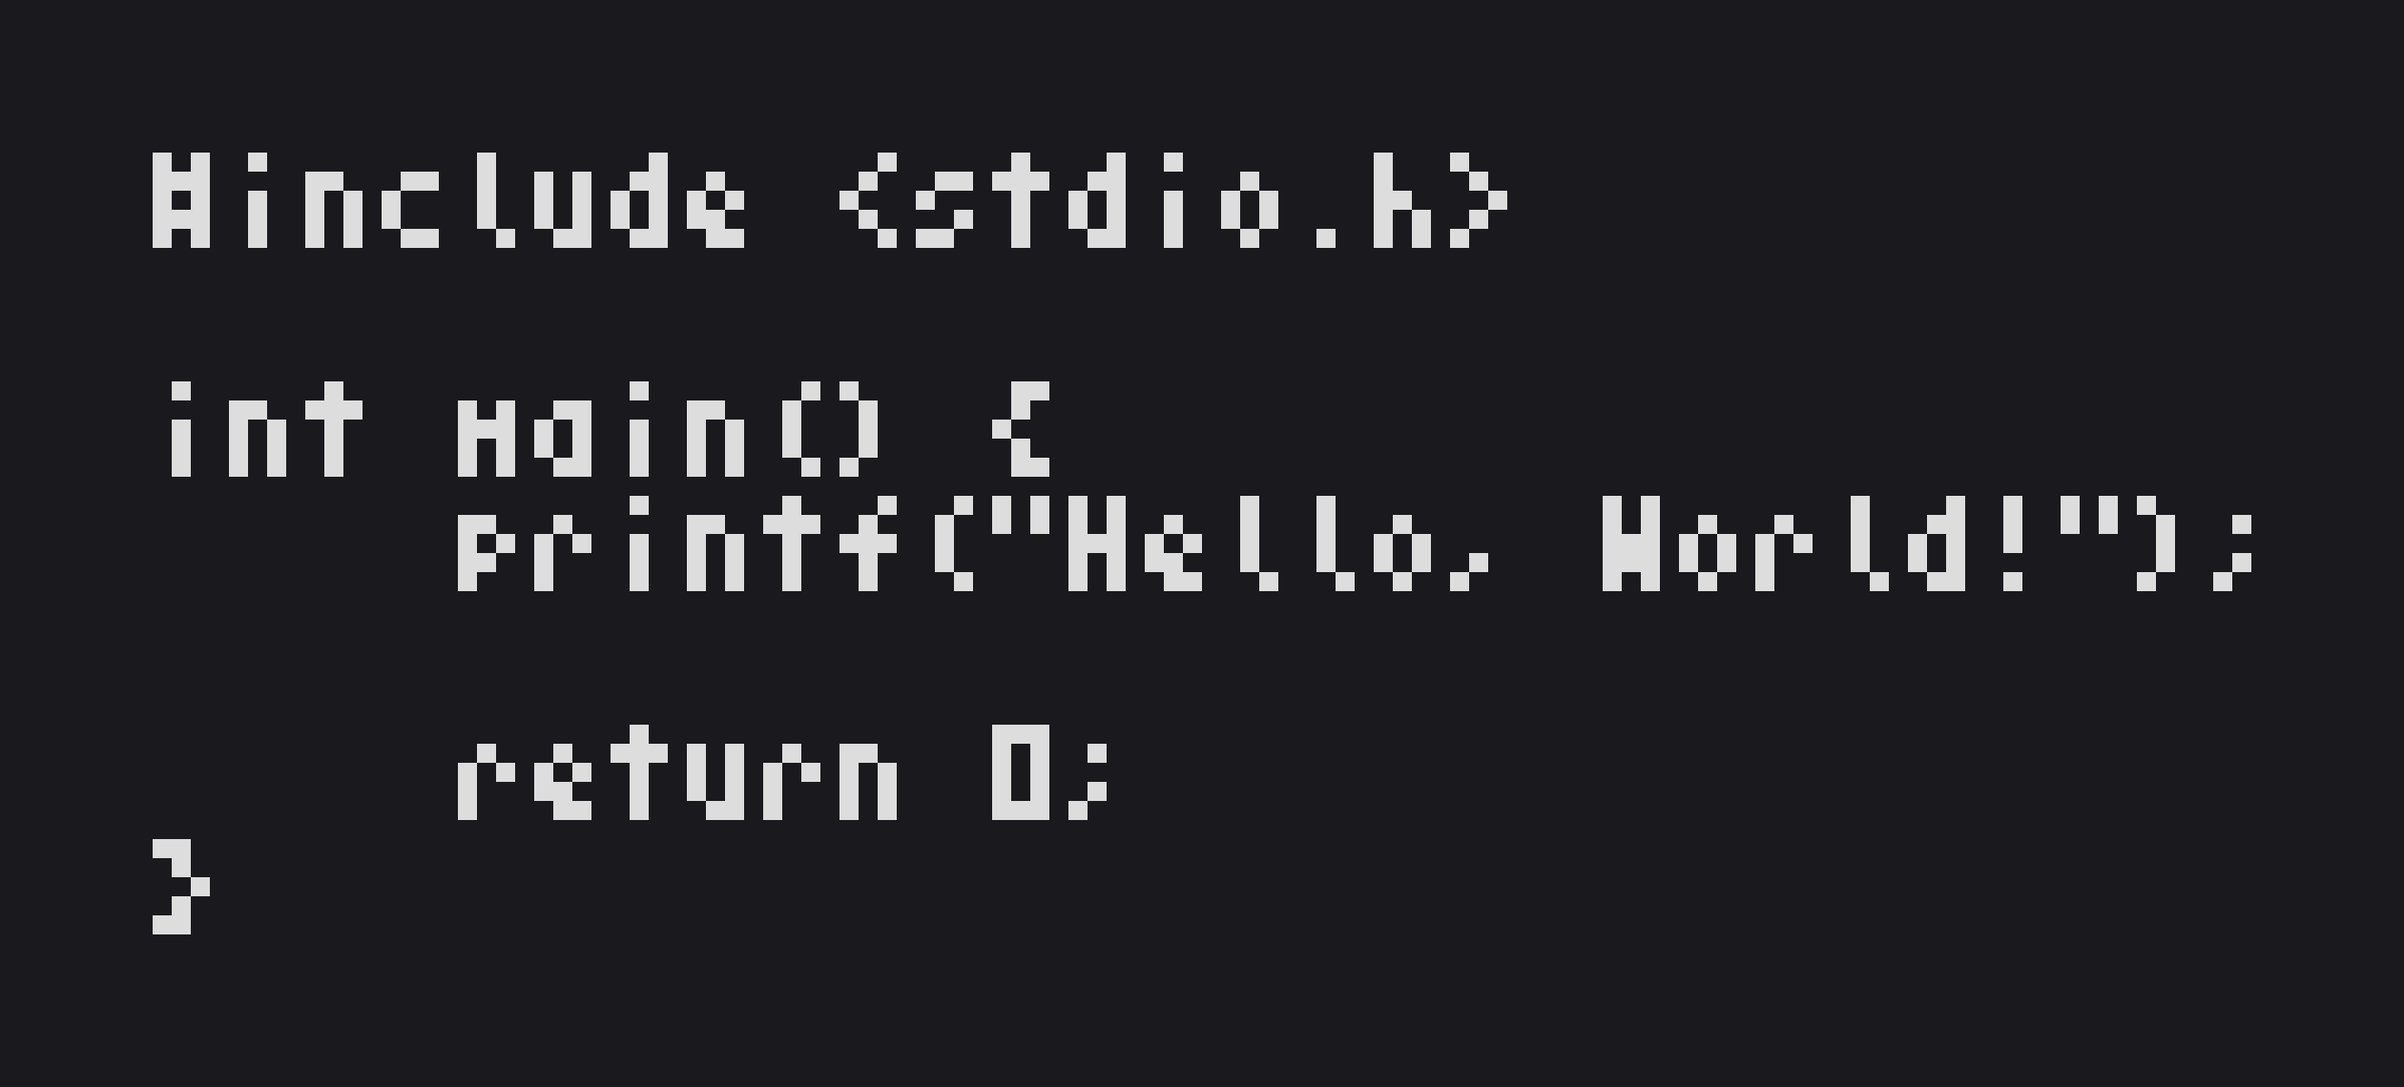
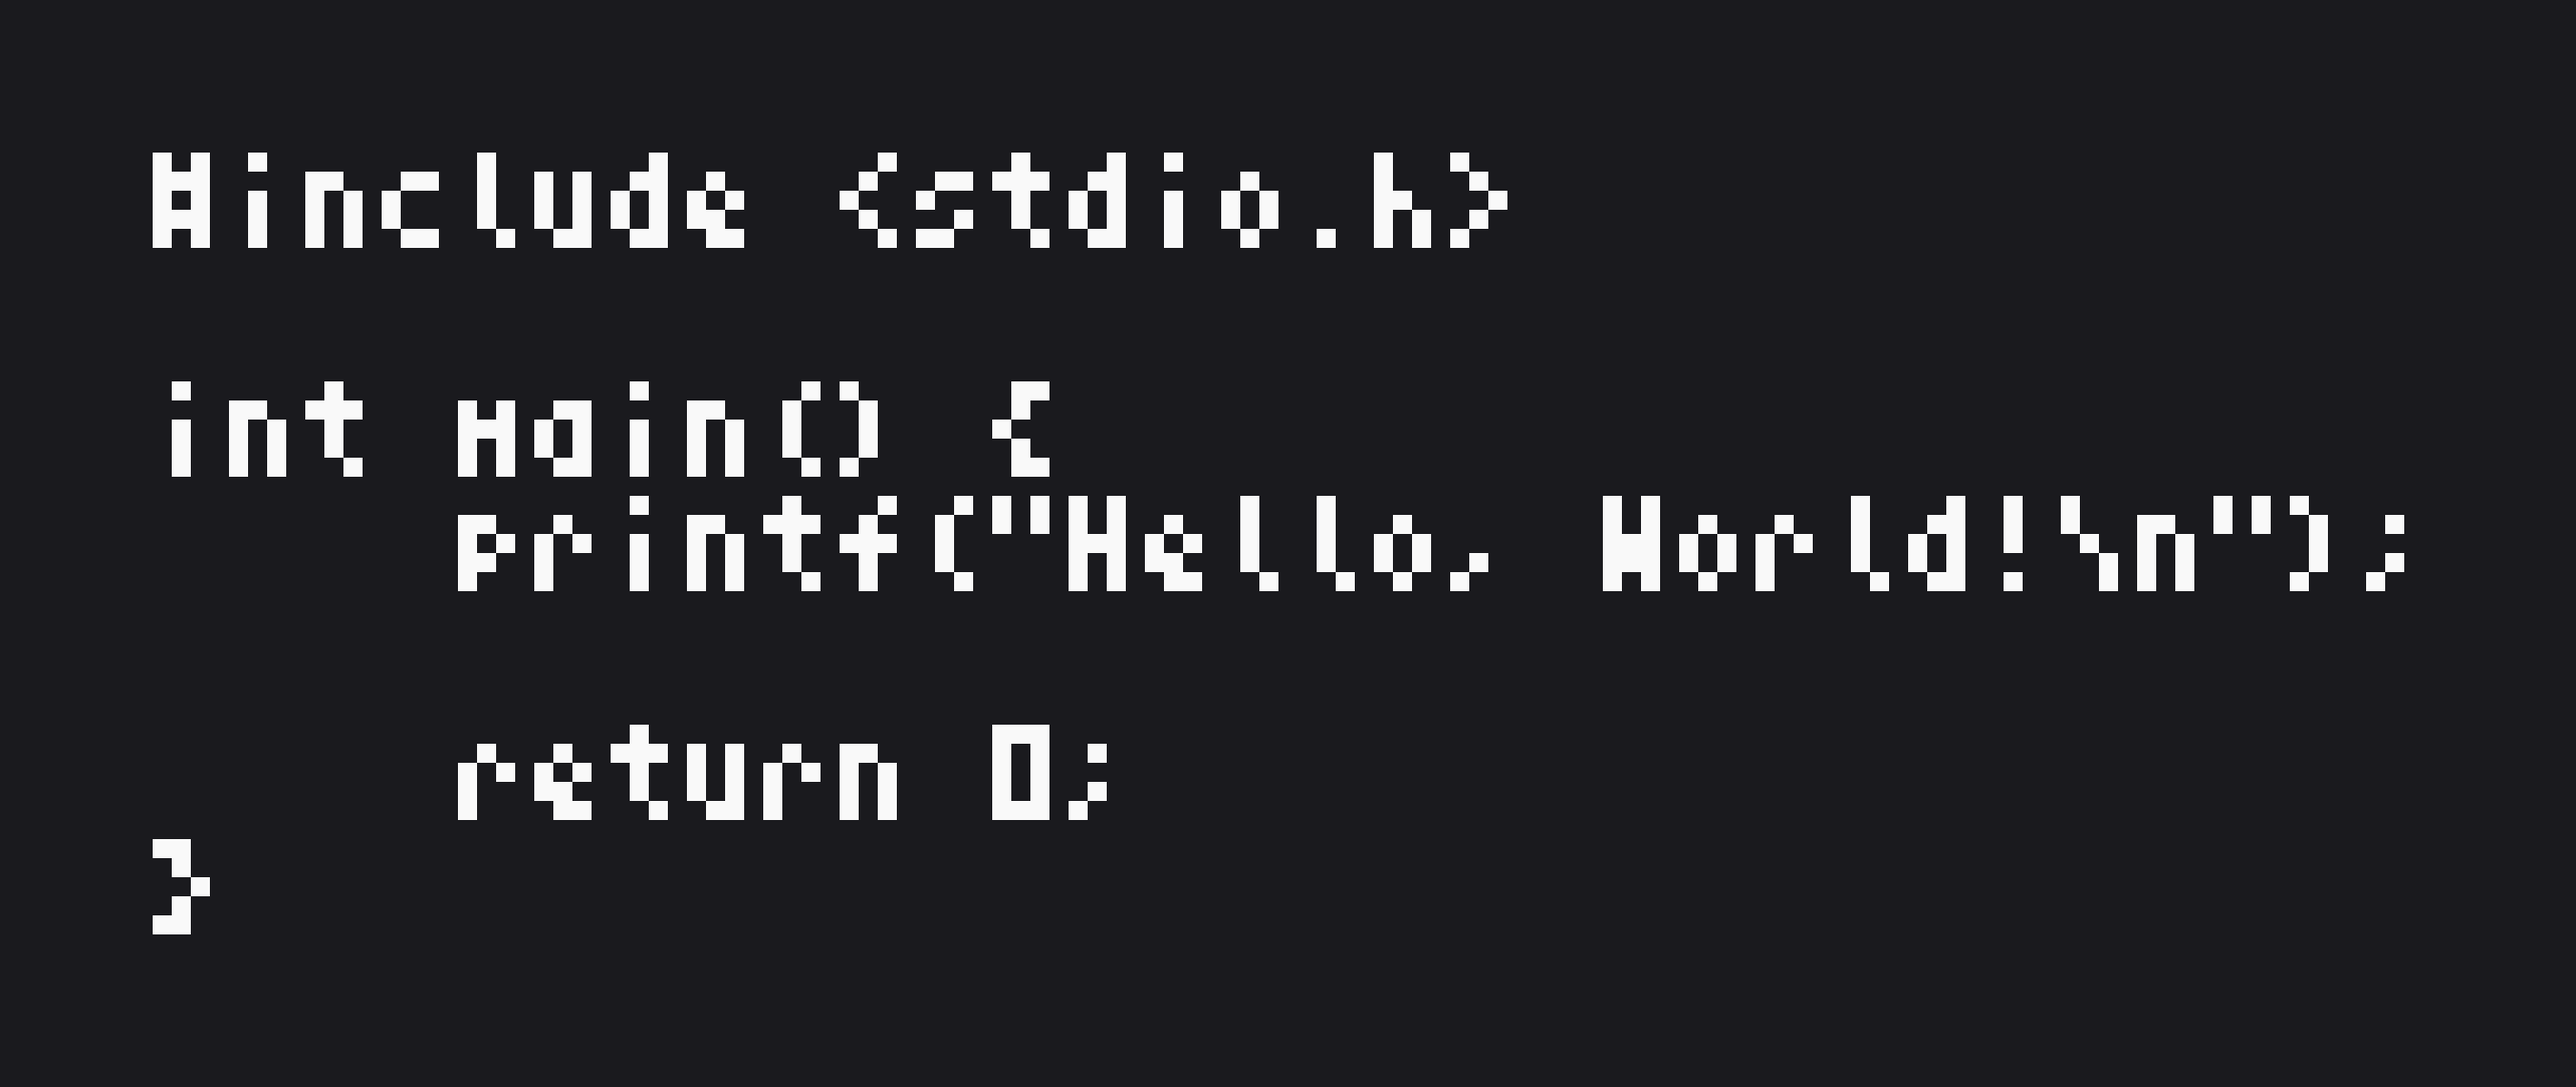
Updated lowercase `t` to match style better

diff --git a/src/encode_binary_array.py b/src/encode_binary_array.py
@@ -116,7 +116,7 @@ def parse_args(args):
         formatter_class=argparse.RawDescriptionHelpFormatter
     )
     parser.add_argument("-f", "--font", dest="font", type=str, required=False, default=DEFAULT_FONT_PATH,
-                        help=f"the path to the 1D font image to use [{Path(DEFAULT_FONT_PATH).relative_to(PATH)}]"
+                        help=f"the path to the 1D font image to use [\"{Path(DEFAULT_FONT_PATH).relative_to(PATH)}\"]"
                         )
     parser.add_argument("-o", "--output", dest="output", type=str, required=False, default=None,
                         help="output file for the look-up table [None, print only]")

diff --git a/README.md b/README.md
@@ -165,7 +165,7 @@ Here is that array for the current iteration of the Microfont:
     0x5aad, 0x5a92, 0x72a7, 0x3493, 0x4889, 0x6496, 0x2a00, 0x0007,
     0x4400, 0x076b, 0x4d6e, 0x0723, 0x176b, 0x0573, 0x15d2, 0x2aca,
     0x49ad, 0x2092, 0x104a, 0x4bad, 0x2491, 0x0bed, 0x0d6d, 0x056a,
-    0x0d74, 0x0759, 0x0564, 0x070e, 0x2e92, 0x0b6b, 0x0b6a, 0x0b7d,
+    0x0d74, 0x0759, 0x0564, 0x070e, 0x2e91, 0x0b6b, 0x0b6a, 0x0b7d,
     0x0a95, 0x0aca, 0x0e67, 0x3513, 0x2492, 0x6456, 0x00f0, 0x0000
 }
 ```
